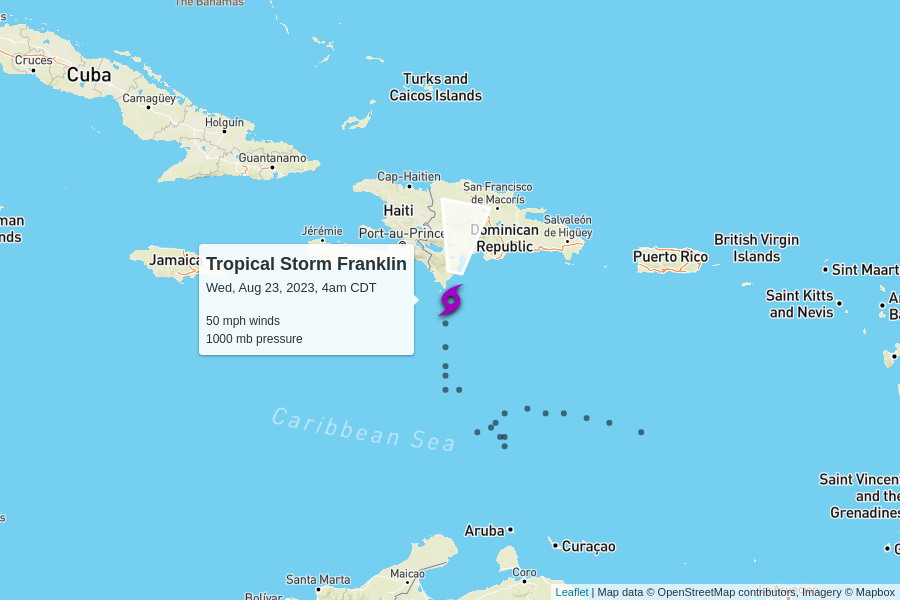
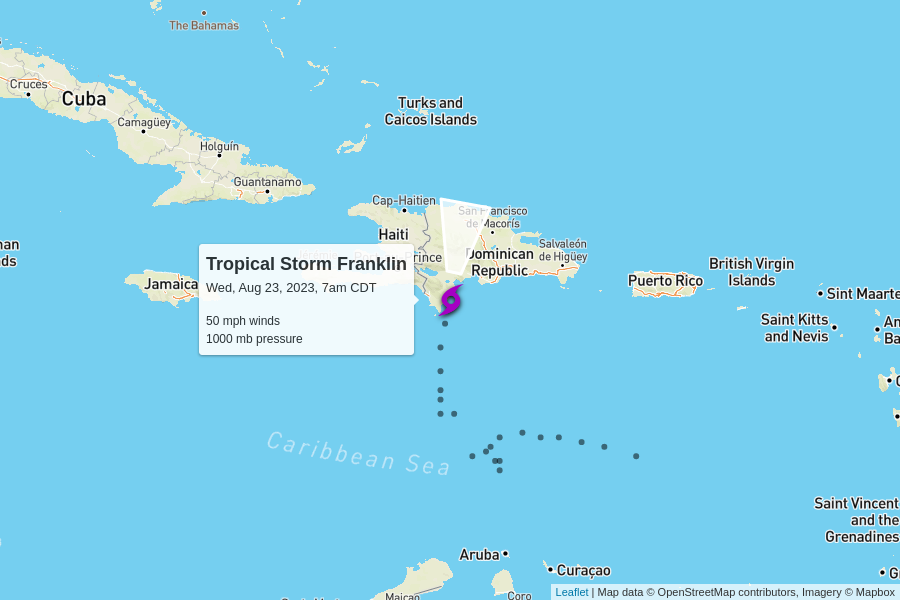
automatic update

diff --git a/docs/index.html b/docs/index.html
@@ -100,7 +100,7 @@
         <td colspan="6" class="storm category-0" >
           <h2>
             Tropical Storm Franklin
-            <p class="updated">last updated <span data-time>2023-08-23T09:00:00.000Z</span></p>
+            <p class="updated">last updated <span data-time>2023-08-23T12:00:00.000Z</span></p>
           </h2>
         </td>
       </tr>
